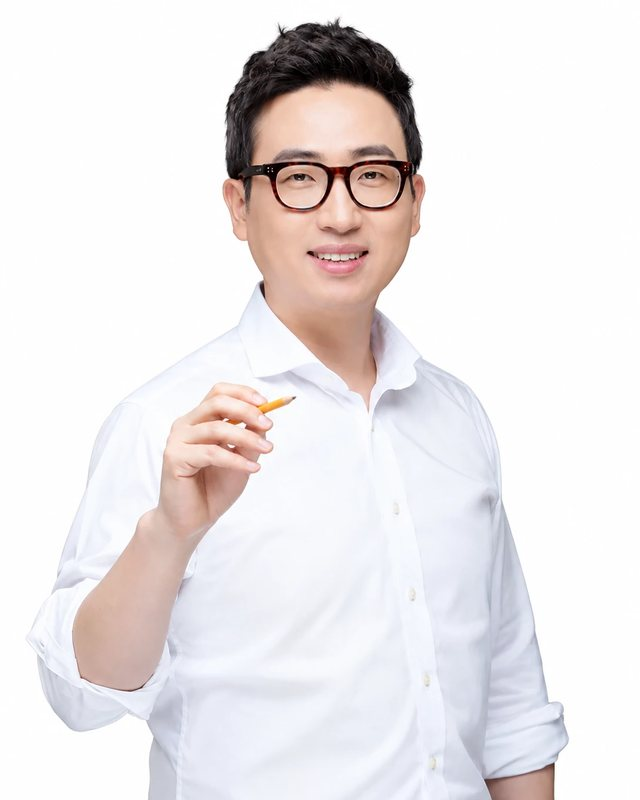
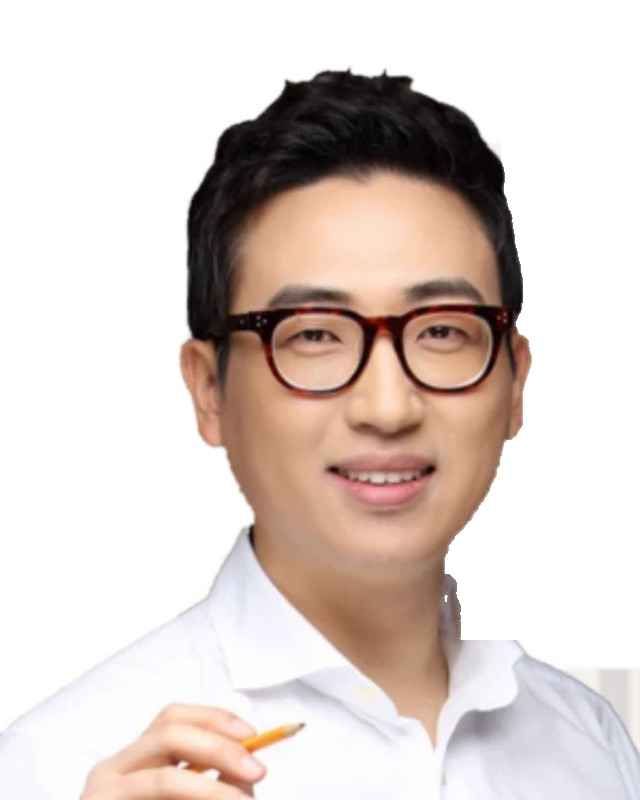
강사진: 김경한 사진 추가, 영어 문지현·박정은 추가, 서현우 하나고 출강 삭제

diff --git a/index.html b/index.html
@@ -572,13 +572,15 @@ const T=[
  {n:'김준교',s:'수학',c:['서울과학고등학교 졸업','KAIST 졸업']},
  {n:'소영윤',s:'수학',c:['대치동 최상위권 현장 강의','25년 이상 내신 · 수능 수학 지도']},
  {n:'조일환',s:'수학',c:['서울대학교 수학과 학사 · 석사 수료','UCLA 수학과 석사 · 응용수학 박사 과정','가톨릭대 · 성균관대 의약 논술 강의']},
+ {n:'문지현',s:'영어',c:['현) 메가스터디 영어 인강 대표강사','러셀 공채 1위 영어강사','전) 휘문고 · 단대부고 · 세화고 전임','매년 수능 만점자 배출','이투스북 모의고사 출제 · 검토']},
+ {n:'박정은',s:'영어',c:['서울대학교 영어영문학과','서초 메가스터디 강의평가 1위','메가스터디 6월 · 9월 수능 모의평가 대표 평가위원','대성 모의고사 평가위원 (Dfine · Darchaive 모의고사 외)']},
  {n:'고연승',s:'영어',c:['연세대학교 영어영문학과','강남대성']},
  {n:'최한근',s:'탐구',t:'생명과학',c:['고려대학교 생물교육과','강남대성']},
  {n:'이정태',s:'탐구',t:'통합사회 · 인문논술',c:['서울대학교 문화인류학과 · 미시간주립대 석사','아폴론 · 이슈앤스카이','전) 중앙일보 기자','『밥상에 차려진 통합논술』']},
  {n:'안재훈',s:'논술',t:'인문 · 약술국어',c:['서울대학교 철학과 · 서울대 행정대학원','하나고 · 포항제철고 출강','저서 다수']},
  {n:'강명필',s:'논술',t:'인문논술',c:['서울대학교 인류학과 · 연세대 MBA','다빈치논술 · 이슈앤투데이']},
  {n:'변기윤',s:'논술',t:'인문 · 약술논술',c:['연세대학교 · 서울대 행정대학원','가천대 겸임교수','이투스 · 로고스']},
- {n:'서현우',s:'논술',t:'인문논술',c:['성균관대학교 법학 학사 · 석사','건국대 전임교수','하나고 · 포항제철고 출강','서울대 · 고려대 · 한양대 특강']},
+ {n:'서현우',s:'논술',t:'인문논술',c:['성균관대학교 법학 학사 · 석사','건국대 전임교수','서울대 · 고려대 · 한양대 특강']},
  {n:'황송주',s:'논술',t:'수리 · 약술수학',c:['서울대학교 수학과','메타 논술 · 자사고 및 지자체 논술 강의','『강남 일번지 엄마들의 수험생 자녀 관리』']},
  {n:'박성하',s:'논술',t:'수리논술',c:['서울대학교 수학교육과','천안북일고 · 미래탐구 · 아폴론 · 종로학원','『해법논술』']},
  {n:'임창훈',s:'논술',t:'의대 수리논술',c:['서울대학교 수학과 · 포항공대 석사','가톨릭대 등 주요 의대 논술 강의']},
@@ -588,7 +590,7 @@ const T=[
 ];
 const list=document.getElementById('tlist');
 /* 사진: img/teachers/이름.jpg 를 PHOTO 에 적으면 사진, 없으면 성 한 글자 */
-const PHOTO={};['류성훈','이태형','권현석','정민','홍진수','최정윤','이예섭','정지만','김현중','이창환','최현재'].forEach(n=>PHOTO[n]='img/teachers/'+n+'.jpg');
+const PHOTO={};['류성훈','이태형','권현석','정민','홍진수','최정윤','이예섭','정지만','김현중','이창환','최현재','김경한','문지현','박정은'].forEach(n=>PHOTO[n]='img/teachers/'+n+'.jpg');
 /* 줄 순서: 1줄 국어 · 2줄 수학 · 3줄 영어 · 4줄 탐구 · 논술 (11/19 사장님 요청)
    같은 과목 안에서는 (탐구는 통합과학·통합사회·사탐 순으로 묶고) 사진 있는 강사 먼저, 나머지는 배열 순서 그대로 */
 const SUBJ=['국어','수학','영어','탐구','논술'];
